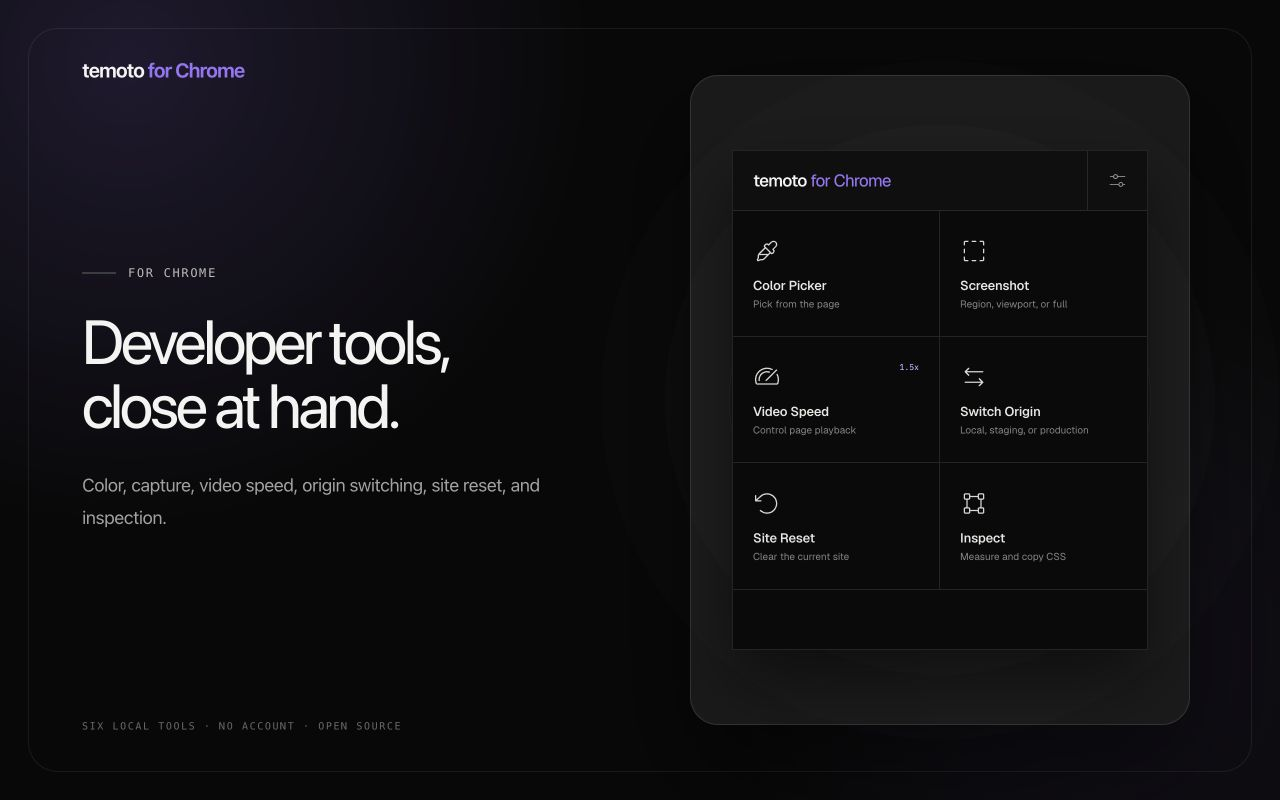
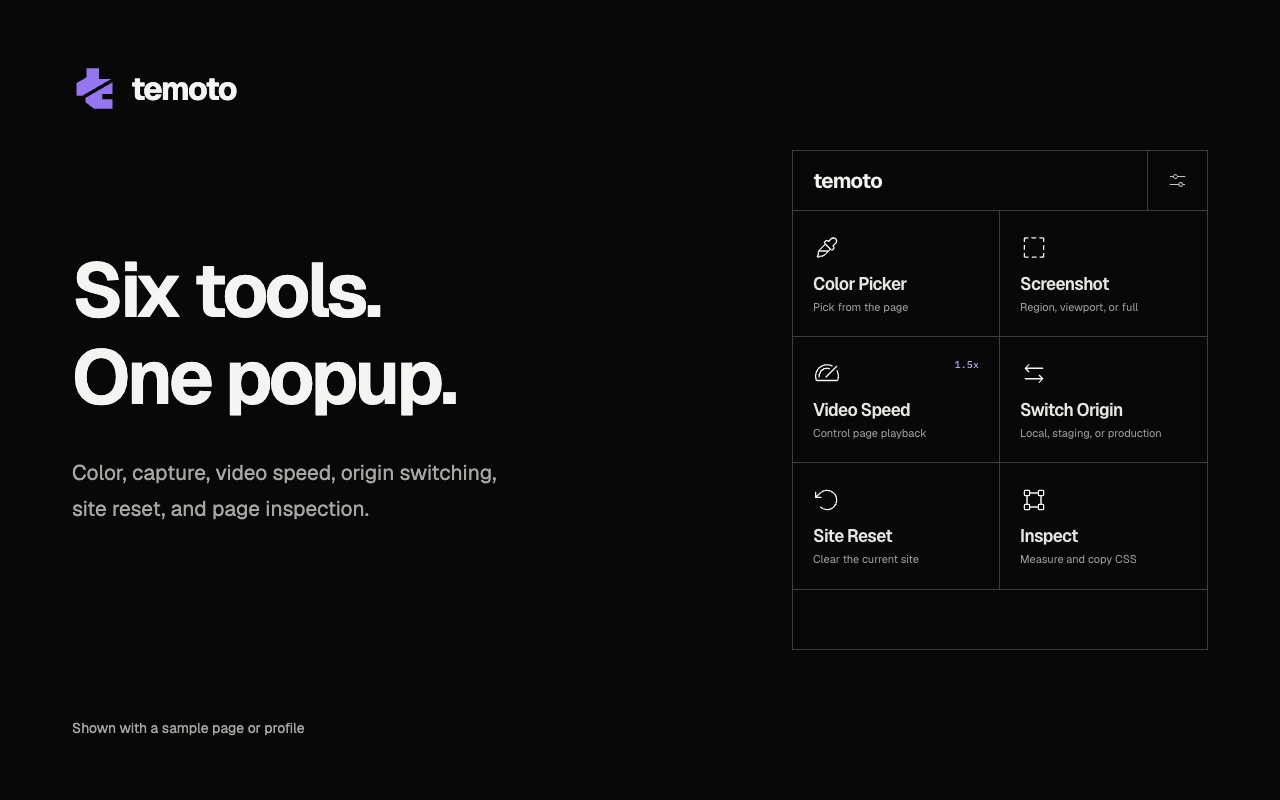
chore: prepare Chrome Web Store release assets

diff --git a/browser/STORE-HANDOFF-2026-09-13.md b/browser/STORE-HANDOFF-2026-09-13.md
@@ -1,0 +1,54 @@
+# Chrome Web Store 提出前の引き継ぎ
+
+2026-09-13時点。ローカルの提出素材は準備済み。アップロード、審査提出、push、サイト公開は行っていません。現在のstable Google Chromeでの最終確認と、ストア管理画面の確認が残っています。
+
+## アップロードするファイル
+
+| 商品 | 公開ページで確認した版 | 今回のZIP | 既存のストアID |
+| --- | --- | --- | --- |
+| temoto for Chrome | 0.2.0 | [1.0.1](temoto-chrome/release/temoto-for-chrome-v1.0.1.zip) | `gcncgknjklghkoeiapcbdghodepnllid` |
+| temoto Proxy | 1.1.0 | [1.2.0](temoto-proxy/release/temoto-proxy-v1.2.0.zip) | `hohabmdadcdkifcmbclkgnomhhlllnbb` |
+
+新しい商品は作らず、既存商品の更新として扱います。Chromeの旧ローカル1.0.0 ZIPは上書きせず残しています。公開ページと管理画面の下書き・審査中バージョンは別の状態です。後者は未確認のため、アップロード時に番号の衝突がないことも確認してください。
+
+| ZIP | サイズ | SHA-256 |
+| --- | ---: | --- |
[2 lines of base64/hex data omitted]
+
+両ZIPの整合性、ルートのmanifest、版番号、公開鍵から導出した既存ストアID、`key`の除去、ビルドとの全ファイル照合を確認済み。Chromeは46ファイル、Proxyは23ファイル。開発用studyやソースマップの混入なし。ZIPはローカル成果物のため、再生成するとハッシュが変わる場合があります。
+
+## ストアの文章・画像
+
+- [Chrome：日英の掲載文、権限説明、審査担当者向け操作手順](temoto-chrome/store/listing.md)
+- [Proxy：日英の掲載文、権限説明、審査担当者向け操作手順](temoto-proxy/store/listing.md)
+- Chrome画像：[英語](temoto-chrome/store/assets/screenshot-launcher-1280x800.jpg)、[日本語](temoto-chrome/store/assets/screenshot-launcher-ja-1280x800.jpg)、[小型プロモ](temoto-chrome/store/assets/promo-small-440x280.jpg)
+- Proxy画像：[英語ポップアップ](temoto-proxy/store/assets/screenshot-popup-1280x800.jpg)、[日本語ポップアップ](temoto-proxy/store/assets/screenshot-popup-ja-1280x800.jpg)、[英語管理画面](temoto-proxy/store/assets/screenshot-manager-1280x800.png)、[日本語管理画面](temoto-proxy/store/assets/screenshot-manager-ja-1280x800.png)、[小型プロモ](temoto-proxy/store/assets/promo-small-440x280.jpg)
+- 128pxアイコン：[Chrome](temoto-chrome/public/icons/icon-128.png)、[Proxy](temoto-proxy/dist/client/icons/icon-128.png)
+
+スクリーンショット6枚は1280 × 800、小型プロモ2枚は440 × 280。各画像の寸法・不透明形式・表示を確認済み。ビルド済みUIをサンプルデータで撮影したもので、Chromeにインストールした拡張の動作証明ではありません。[再撮影手順](shared/STORE-CAPTURE.md)も用意しています。
+
+## 変更内容
+
+Chrome：6ツールのポップアップと設定画面を黒・白・紫の共通テーマへ更新。B/Jointアイコンを採用。拡張の更新・再読み込み後に残った動画ハンドラーが `Extension context invalidated` を起こすケースを修正。
+
+Proxy：同じテーマと中抜きのB/Jointアイコンへ更新。管理画面は接続設定を先頭にまとめ、追加設定を折りたたみ、入力欄のフォーカス線を整理。別拡張としての配布、安全なOff、セッション限定認証は維持。
+
+公開版に対応する手元の旧ZIPと比較すると、両商品の権限配列・ホスト権限は増えていません。ただしChromeには既存の開発変更としてWebMCPのcontent scriptが追加されています。明示的に有効化したページに限り、そのタブの拡張の有無・動画速度を扱う連携です。この差分を掲載文・プライバシーポリシーへ反映しました。「権限が同じ」ことと「実行コードが同じ」ことを混同しないでください。
+
+## 確認結果
+
+- Chrome：`npm test` 44件、`npm run package`（build・パッケージ検証を含む）、`npm run test:sites` 4件が成功。
+- Proxy：`npm run check` 41件、`npm run package` が成功。
+- サイト：`npm run lint`、`npm test`（buildを含む）8件が成功。ストア画像の正規コピーも既存スクリプトで同期済み。公開はしていません。
+- 自動テスト合計97件成功。UI撮影はローカルプレビューで確認済み。撮影中の出所未特定のMutationObserverエラー1件は、拡張の実行環境由来か未確定のため「コンソールエラーなし」とは判定していません。
+
+## 提出前に残っていること
+
+1. **現在のstable Google Chromeで最終確認。** 新ZIPと同一ビルドの各 `dist/client` を読み込み、6ツール、更新後の動画ページ、Proxyの有効化・安全なOff・認証失敗・競合を確認。以前のユーザー実機確認とは分けて記録してください。手順は各listingにあります。
+2. **プライバシーポリシーを公開。** ローカルで修正した [Chrome](temoto-chrome/PRIVACY.md) と [Proxy](temoto-proxy/PRIVACY.md) を公開リポジトリへ反映する必要があります。今回pushはしていません。
+3. **Chrome側の旧URLを差し替え。** 公開ストアのChromeポリシーリンクは旧 `shelfdrop` リポジトリを指していました。更新後は `https://github.com/hayashiii-ghub/temoto/blob/main/browser/temoto-chrome/PRIVACY.md`。Proxy側は同じ `temoto` リポジトリの `browser/temoto-proxy/PRIVACY.md` を使います。公開後の内容と到達性を確認してください。
+4. **管理画面を確認して更新。** 接続先ブラウザーから管理画面へアクセスできず、下書き・審査状態・配布地域・宣誓欄は未確認です。既存商品へZIP、日英の文章・画像を入れ、権限理由とデータ利用の宣誓を実態に合わせて確認。手動公開を希望するなら審査後の自動公開を避ける設定も確認してください。
+5. **最後に審査へ提出。** アップロードの成功、審査提出、審査通過、公開はそれぞれ別の完了条件です。
+
+画像寸法の基準は[公式の画像ガイド](https://developer.chrome.com/docs/webstore/images)、更新手順は[公式の更新ガイド](https://developer.chrome.com/docs/webstore/update)を参照しています。

diff --git a/browser/temoto-chrome/PRIVACY.md b/browser/temoto-chrome/PRIVACY.md
@@ -1,6 +1,6 @@
 # Privacy Policy for temoto for Chrome
 
-Effective date: August 11, 2026
+Last updated: September 13, 2026 (prepared for version 1.0.1)
 
 temoto for Chrome is a toolkit for inspecting and testing the web page that the user is currently viewing. This policy explains how the extension handles data.
 
@@ -15,6 +15,7 @@ Depending on the tool the user chooses, the extension may process:
 - User-provided Local, Staging, and Production origins.
 - temoto Proxy installation state, effective status, and profile identity when the separately installed companion is available.
 - The user's most recently selected color and playback speed.
+- On pages that explicitly enable the optional WebMCP integration: extension availability/version, a requested video speed, and the local operation's result.
 - Cache, cookies, local storage, IndexedDB, Cache Storage, and service-worker registrations for the current origin when the user explicitly runs Site Reset.
 
 ## How data is used
@@ -23,6 +24,7 @@ The data above is used only to provide temoto's user-facing tools. temoto does n
 
 - Current-page details are read when the popup opens so the requested tools can act on that page.
 - A local key handler listens for `G`, `D`, and `S` on HTTP(S) pages so playback speed can change without opening the popup. It ignores editable fields and modifier-key combinations, processes matching keys locally, and does not retain the key events.
+- On pages declaring `meta[name="temoto-webmcp"][content="enabled"]`, a local bridge lets the page check extension availability and request video-speed changes in that tab. If the browser supports WebMCP, these two actions are also exposed as page tools. The bridge returns availability/version or the speed-change result to that same page; it does not expose other tabs, screenshots, environment settings, or Proxy configuration.
 - Screenshot pixels are used to render the capture preview and allow the user to copy or save a PNG.
 - Environment origins are used to navigate between development environments while preserving the rest of the URL.
 - Site data is deleted only after the user chooses Site Reset and approves Chrome's optional permission prompt.
@@ -36,7 +38,7 @@ The data above is used only to provide temoto's user-facing tools. temoto does n
 
 ## Data sharing and transmission
 
-temoto does not transmit user data to the developer or to any external server. When both temoto extensions are installed, temoto for Chrome exchanges bounded local messages with temoto Proxy for effective status, profile activation, safe Off, and opening the manager. It does not sell data, share data with third parties, use analytics, or use data for advertising, creditworthiness, or lending purposes. No remotely hosted code is executed.
+temoto does not transmit user data to the developer or to any external server. When both temoto extensions are installed, temoto for Chrome exchanges bounded local messages with temoto Proxy for effective status, profile identity, and opening the manager. Profile activation and safe Off are performed in temoto Proxy itself. The optional WebMCP bridge returns only the limited local results described above to the requesting page. temoto does not sell data, use analytics, or use data for advertising, creditworthiness, or lending purposes. No remotely hosted code is executed.
 
 ## Permissions
 
@@ -45,10 +47,10 @@ temoto does not transmit user data to the developer or to any external server. W
 - `storage`: save local environment settings and the user's most recently selected color and playback speed.
 - `sidePanel`: show persistent environment settings and tool details.
 - `clipboardWrite`: copy colors, screenshots, and CSS selectors after a user action.
-- Website access on HTTP(S) pages: load the local Video Speed key handler in page frames so `G`, `D`, and `S` work without opening the popup. This access is not used to transmit page content or browsing activity.
+- Website access on HTTP(S) pages: load the local Video Speed key handler in page frames so `G`, `D`, and `S` work without opening the popup, and enable the local WebMCP bridge on explicitly opted-in top-level pages. This access is not used to transmit page content or browsing activity.
 - Optional `browsingData`: clear data only for the current origin when the user runs Site Reset. Chrome asks for this permission at that time.
 
-The persistent website access above is required only for the always-available Video Speed shortcuts. Other page tools remain user initiated.
+The persistent website access above supports always-available Video Speed shortcuts and the explicitly opted-in WebMCP bridge. Other page tools remain user initiated.
 
 ## User control
 

diff --git a/browser/shared/STORE-CAPTURE.md b/browser/shared/STORE-CAPTURE.md
@@ -1,0 +1,25 @@
+# Store artwork capture
+
+The capture stage serves the actual built product HTML/CSS/JavaScript using its existing browser-preview data. It does not install an extension, apply a proxy or verify real network behavior. The stage itself is excluded from both release ZIPs.
+
+From each product directory, build using the existing `npm run build` command. Then, from the repository root:
+
+```sh
+node browser/shared/serve-store-capture.mjs
+```
+
+It listens only on `127.0.0.1:4190`. `TEMOTO_CAPTURE_PORT` can override the port. Stop it after capture.
+
+| URL path | Size | Output |
+| --- | --- | --- |
+| `/?product=chrome&lang=en` or `lang=ja` | 1280 × 800 | Chrome launcher JPEG |
+| `/?product=proxy&lang=en` or `lang=ja` | 1280 × 800 | Proxy popup JPEG |
+| `/proxy/manager.html?lang=en` or `lang=ja` | 1280 × 800 | Proxy manager opaque PNG |
+| `/?product=chrome&mode=promo` | 440 × 280 | Chrome small promo JPEG |
+| `/?product=proxy&mode=promo` | 440 × 280 | Proxy small promo JPEG |
+
+Use browser capture, not reconstructed product markup. Set device scale to 1 after navigation, allow the loaded page to render, and check the saved image itself: the browser may restore a Retina scale on navigation. Confirm exact pixel dimensions, no clipping and no alpha for screenshots. Restore the viewport afterward. Save to the corresponding existing `store/assets/` paths listed in each product's `store/listing.md`.
+
+The 2026-09-13 set was captured in the Codex in-app browser. Popup compositions label their sample data; manager captures show built-in sample profiles. Neither is evidence of installed Chrome runtime or network testing.
+
+Run the site's existing `npm run sync:product-icons` command after updating artwork to synchronize its canonical copies. This does not deploy the website.

diff --git a/browser/temoto-proxy/PRIVACY.md b/browser/temoto-proxy/PRIVACY.md
@@ -1,6 +1,6 @@
 # Privacy policy for temoto Proxy
 
-Last updated: August 14, 2026
+Last updated: September 13, 2026 (prepared for version 1.2.0)
 
 temoto Proxy is a local Chrome extension for managing development proxy profiles. It does not transmit personal data, browsing data, page content, request bodies, response bodies, or analytics to the developer or to third parties.
 
@@ -18,7 +18,7 @@ When the user runs a connection test, the extension sends a credential-free HTTP
 
 The extension listens for proxy authentication challenges only. It supplies session credentials only when Chrome identifies the challenge as a proxy challenge and its proxy host exactly matches a host explicitly allowed in the active profile. Authentication attempts are limited to prevent retry loops.
 
-When the separately installed temoto for Chrome companion is present, temoto Proxy accepts local messages only from its allowlisted extension ID. It may return effective status and profile ID, name, color, and kind, and may perform an explicit profile activation, safe Off, or manager-open action. It never returns endpoints, routing rules, PAC contents, bypass entries, usernames, passwords, or complete profiles to the companion.
+When the separately installed temoto for Chrome companion is present, temoto Proxy accepts local messages only from its allowlisted extension ID. It may return effective status and profile ID, name, color, and kind, and may open its manager. Profile activation and safe Off remain actions in temoto Proxy itself, not in the companion API. It never returns endpoints, routing rules, PAC contents, bypass entries, usernames, passwords, or complete profiles to the companion.
 
 ## Permissions
 
